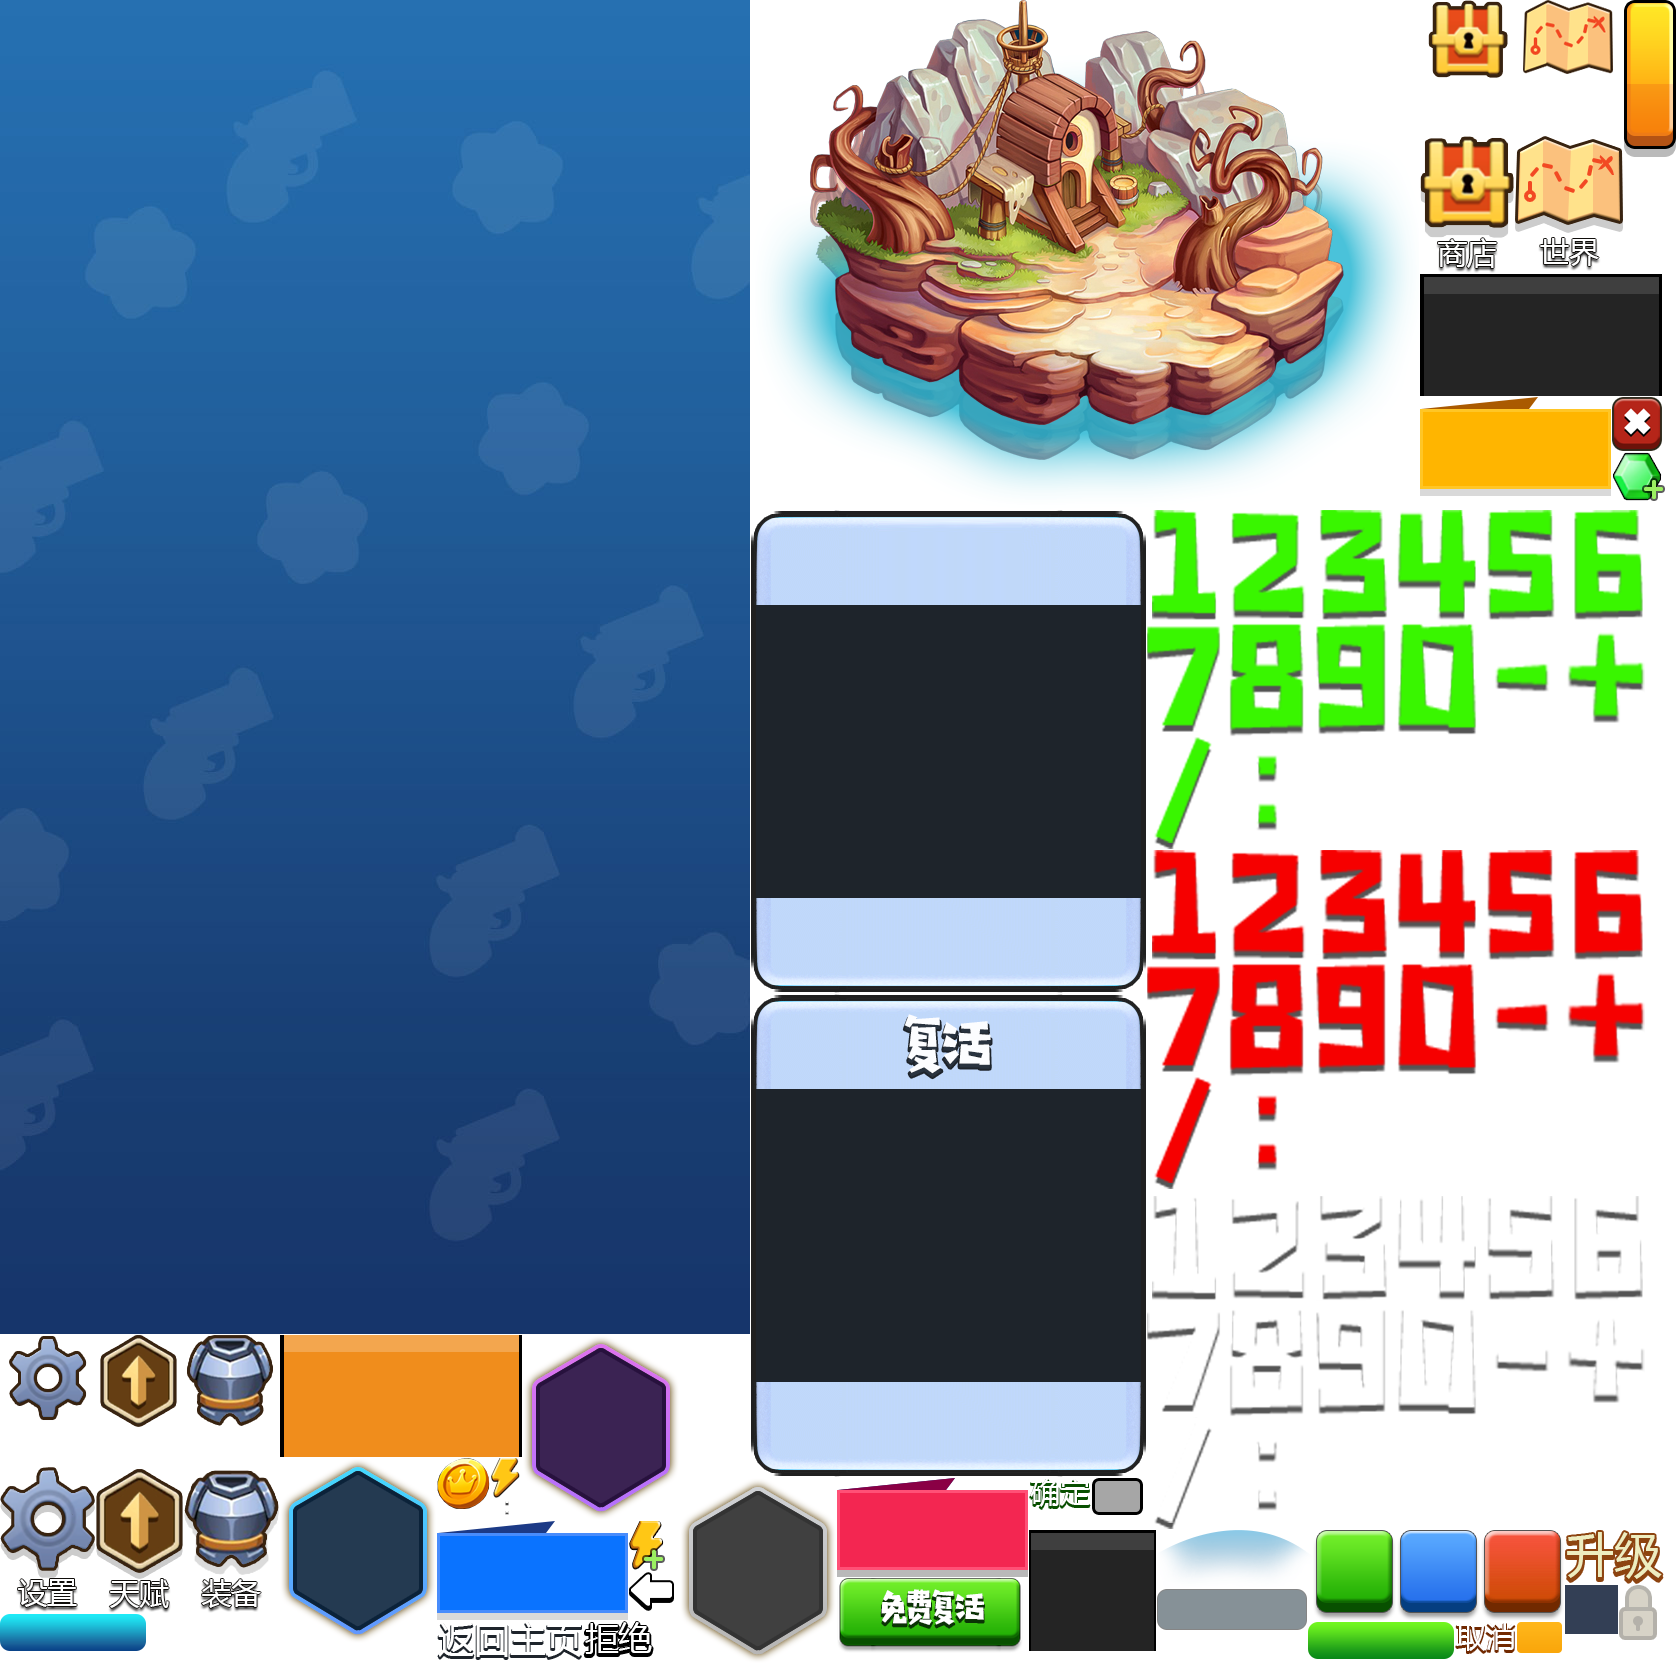
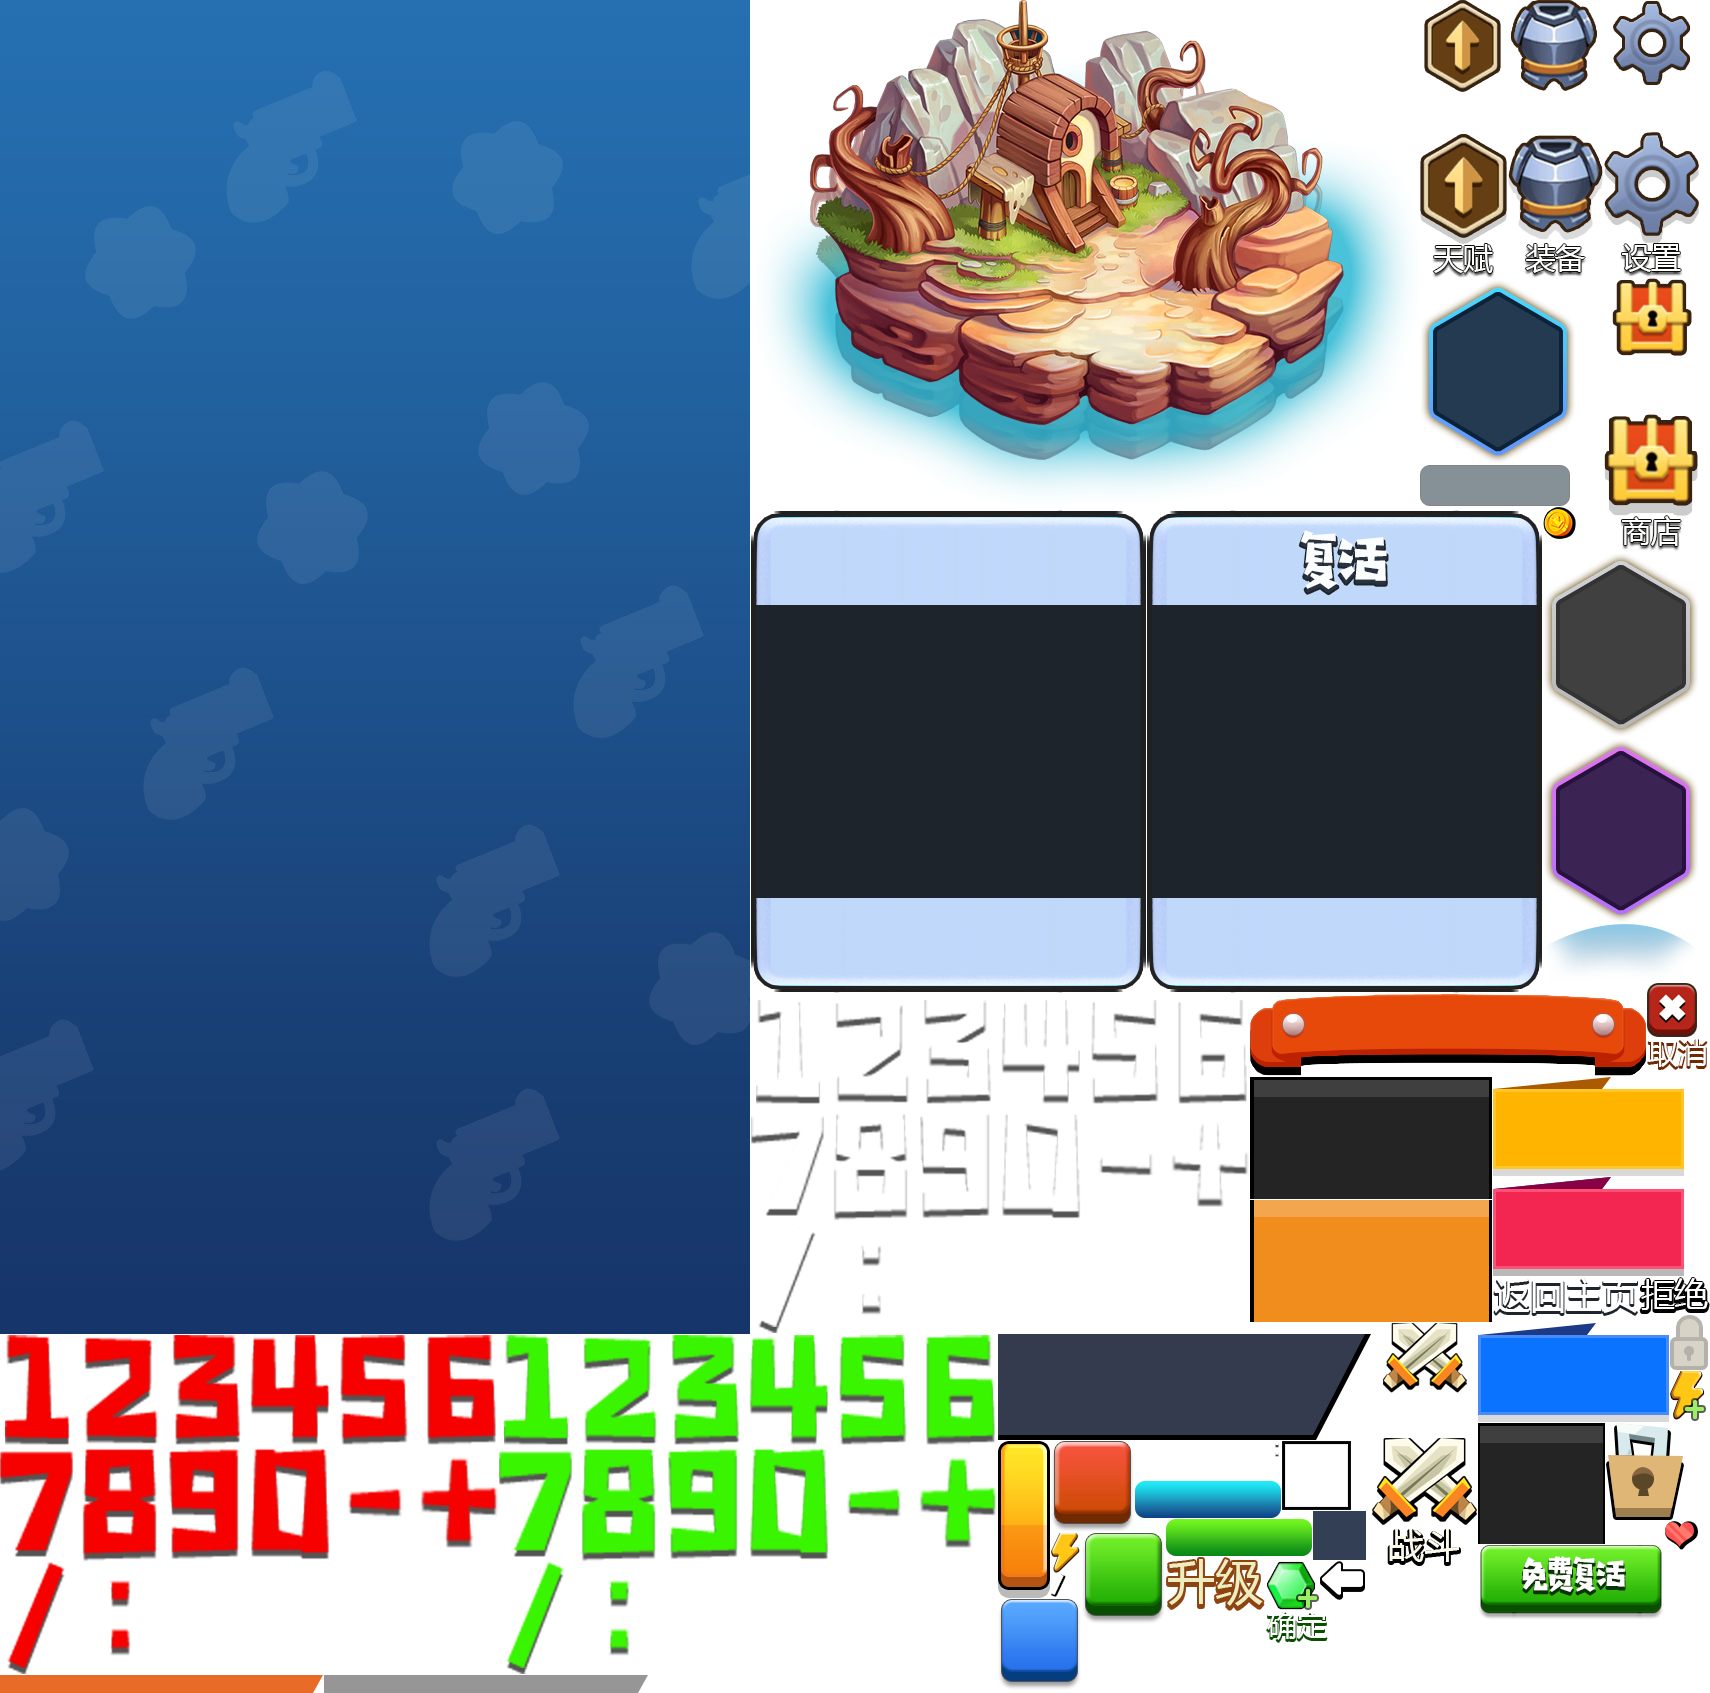
替换ui

diff --git a/Game3D01/src/ui/layaMaxUI.ts b/Game3D01/src/ui/layaMaxUI.ts
@@ -24,7 +24,7 @@ export module ui.test {
 		public zanting:Laya.Button;
 		public jinbishu:Laya.FontClip;
 		public shuzi:Laya.FontClip;
-        public static  uiView:any ={"type":"Dialog","props":{"width":750,"height":80},"compId":2,"child":[{"type":"Box","props":{"y":28,"x":195,"width":400,"height":37},"compId":11,"child":[{"type":"Image","props":{"y":-18,"x":-14,"width":435,"skin":"bg/qianshu.png","sizeGrid":"0,22,0,22","height":67,"alpha":0.8},"compId":3},{"type":"Box","props":{"y":-18,"x":-12,"width":419,"var":"lvBar","height":66},"compId":12,"child":[{"type":"Image","props":{"width":431,"var":"jingyantiao","skin":"bg/jingyantiaoshang.png","sizeGrid":"-11,34,-17,24","height":65},"compId":4},{"type":"Image","props":{"y":16,"x":12,"width":415,"skin":"bg/jingyantiaoguang.png","sizeGrid":"0,43,0,32","height":18},"compId":5}]}]},{"type":"Button","props":{"y":41,"x":665,"width":85,"var":"zanting","stateNum":1,"skin":"bg/btn_zhanting.png","pivotY":34,"pivotX":43,"height":67},"compId":6},{"type":"Sprite","props":{"y":10,"x":35,"texture":"bg/qianshu.png","scaleX":1,"alpha":0.8},"compId":7},{"type":"FontClip","props":{"y":28,"x":79,"width":36,"var":"jinbishu","value":"123","skin":"main/clipshuzi.png","sheet":"123456 7890-+ /:cdef","scaleY":0.3,"scaleX":0.3,"height":121,"align":"left"},"compId":8},{"type":"Sprite","props":{"y":1,"x":325,"texture":"bg/dengji.png"},"compId":9},{"type":"FontClip","props":{"y":5,"x":413,"width":294,"var":"shuzi","value":"2","skin":"main/clipshuzi.png","sheet":"123456 7890-+ /:cdef","scaleY":0.5,"scaleX":0.5,"height":113,"align":"left"},"compId":10},{"type":"Sprite","props":{"y":15.5,"x":18,"texture":"main/dongjin.png","scaleY":1,"scaleX":1},"compId":13}],"loadList":["bg/qianshu.png","bg/jingyantiaoshang.png","bg/jingyantiaoguang.png","bg/btn_zhanting.png","main/clipshuzi.png","bg/dengji.png","main/dongjin.png"],"loadList3D":[]};
+        public static  uiView:any ={"type":"Dialog","props":{"width":750,"height":80},"compId":2,"child":[{"type":"Box","props":{"y":28,"x":195,"width":400,"height":37},"compId":11,"child":[{"type":"Image","props":{"y":-18,"x":-14,"width":435,"skin":"bg/qianshu.png","sizeGrid":"0,22,0,22","height":67,"alpha":0.8},"compId":3},{"type":"Box","props":{"y":-18,"x":-12,"width":419,"var":"lvBar","height":66},"compId":12,"child":[{"type":"Image","props":{"width":431,"var":"jingyantiao","skin":"bg/jingyantiaoshang.png","sizeGrid":"-11,34,-17,24","height":65},"compId":4},{"type":"Image","props":{"y":16,"x":12,"width":415,"skin":"bg/jingyantiaoguang.png","sizeGrid":"0,43,0,32","height":18},"compId":5}]}]},{"type":"Button","props":{"y":41,"x":665,"width":85,"var":"zanting","stateNum":1,"skin":"bg/btn_zhanting.png","pivotY":34,"pivotX":43,"height":67},"compId":6},{"type":"Sprite","props":{"y":10,"x":35,"texture":"bg/qianshu.png","scaleX":1,"alpha":0.8},"compId":7},{"type":"FontClip","props":{"y":28,"x":79,"width":36,"var":"jinbishu","value":"123","skin":"main/clipshuzi.png","sheet":"123456 7890-+ /:cdef","scaleY":0.3,"scaleX":0.3,"height":121,"align":"left"},"compId":8},{"type":"Sprite","props":{"y":1,"x":325,"texture":"bg/dengji.png"},"compId":9},{"type":"FontClip","props":{"y":5,"x":413,"width":294,"var":"shuzi","value":"2","skin":"main/clipshuzi.png","sheet":"123456 7890-+ /:cdef","scaleY":0.5,"scaleX":0.5,"height":113,"align":"left"},"compId":10},{"type":"Sprite","props":{"y":9,"x":4,"texture":"bg/dongjin.png","scaleY":1,"scaleX":1},"compId":13}],"loadList":["bg/qianshu.png","bg/jingyantiaoshang.png","bg/jingyantiaoguang.png","bg/btn_zhanting.png","main/clipshuzi.png","bg/dengji.png","bg/dongjin.png"],"loadList3D":[]};
         constructor(){ super()}
         createChildren():void {
             super.createChildren();
@@ -210,25 +210,15 @@ export module ui.test {
     }
     REG("ui.test.LoadingUI",LoadingUI);
     export class mainUIUI extends Scene {
-		public topBox:Laya.Box;
-		public btn_xin:Laya.Button;
-		public jinbishuliang:Laya.Box;
-		public di:Laya.Image;
-		public jinbi:Laya.Image;
-		public coinClip:Laya.FontClip;
-		public shandianshuliang:Laya.Box;
+		public touxiang:Laya.Image;
 		public jingyantiao:Laya.Image;
-		public shandian:Laya.Image;
+		public dengji:Laya.FontClip;
+		public wanjiamingzi:Laya.Label;
+		public coinClip:Laya.FontClip;
 		public timerClip:Laya.FontClip;
 		public tiliClip:Laya.FontClip;
 		public appEnergyClip:Laya.FontClip;
-		public jingyanshuliang:Laya.Box;
-		public jingyan:Laya.Image;
-		public dengji:Laya.FontClip;
-		public shuijingshuliang:Laya.Box;
-		public shuijing:Laya.Image;
-		public shuijingshu:Laya.FontClip;
-        public static  uiView:any ={"type":"Scene","props":{"width":750,"height":1334},"compId":2,"child":[{"type":"Box","props":{"var":"topBox"},"compId":34,"child":[{"type":"Button","props":{"y":136,"x":691,"visible":false,"var":"btn_xin","stateNum":1,"skin":"main/btn_xin.png","anchorY":0.5,"anchorX":0.5},"compId":3},{"type":"Box","props":{"y":5,"x":370,"var":"jinbishuliang"},"compId":7,"child":[{"type":"Image","props":{"y":6,"x":25,"var":"di","skin":"main/shukuang.png"},"compId":5},{"type":"Image","props":{"var":"jinbi","skin":"main/dongjin.png"},"compId":4},{"type":"FontClip","props":{"y":15,"x":53,"width":590,"var":"coinClip","value":"123","skin":"main/clipshuzi.png","sheet":"123456 7890-+ /:cdef","scaleY":0.2,"scaleX":0.2,"height":118,"align":"left"},"compId":6}]},{"type":"Box","props":{"y":5,"x":183,"var":"shandianshuliang"},"compId":8,"child":[{"type":"Image","props":{"y":6,"x":25,"skin":"main/shukuang.png"},"compId":9},{"type":"Image","props":{"y":8,"x":27,"var":"jingyantiao","skin":"main/jindutiao.png"},"compId":17},{"type":"Image","props":{"y":0,"x":7,"var":"shandian","skin":"main/shandianjia.png"},"compId":10},{"type":"FontClip","props":{"y":50.25,"x":75,"width":421,"var":"timerClip","value":"12:00","skin":"main/clipshuzi.png","sheet":"123456 7890-+ /:cdef","scaleY":0.2,"scaleX":0.2,"height":117,"align":"center"},"compId":23},{"type":"FontClip","props":{"y":17.650000000000006,"x":58,"width":412,"var":"tiliClip","value":"20/20","skin":"main/clipshuzi.png","sheet":"123456 7890-+ /:cdef","scaleY":0.2,"scaleX":0.2,"height":112,"align":"center"},"compId":11},{"type":"FontClip","props":{"y":50.25,"x":20,"width":160,"var":"appEnergyClip","value":"-5","skin":"main/clipshuzi.png","sheet":"123456 7890-+ /:cdef","scaleY":0.2,"scaleX":0.2,"height":106,"align":"center"},"compId":38}]},{"type":"Box","props":{"y":5,"var":"jingyanshuliang"},"compId":12,"child":[{"type":"Image","props":{"y":6,"x":25,"skin":"main/shukuang.png"},"compId":13},{"type":"Image","props":{"y":8,"x":27,"var":"jingyan","skin":"main/jindutiaolan.png"},"compId":16},{"type":"Image","props":{"y":-5,"x":0,"skin":"main/pai.png"},"compId":14},{"type":"FontClip","props":{"y":24,"x":29,"width":83,"var":"dengji","value":"10","skin":"main/clipshuzi.png","sheet":"123456 7890-+ /:cdef","scaleY":0.2,"scaleX":0.2,"anchorY":0.5,"anchorX":0.5,"align":"center"},"compId":15}]},{"type":"Box","props":{"y":5,"x":553,"visible":false,"var":"shuijingshuliang"},"compId":18,"child":[{"type":"Image","props":{"y":6,"x":25,"skin":"main/shukuang.png"},"compId":19},{"type":"Image","props":{"var":"shuijing","skin":"main/zuanshijia.png"},"compId":20},{"type":"FontClip","props":{"y":15,"x":53,"width":226,"var":"shuijingshu","value":"123","skin":"main/clipshuzi.png","sheet":"123456 7890-+ /:cdef","scaleY":0.2,"scaleX":0.2,"height":51,"align":"center"},"compId":21}]}]}],"loadList":["main/btn_xin.png","main/shukuang.png","main/dongjin.png","main/clipshuzi.png","main/jindutiao.png","main/shandianjia.png","main/jindutiaolan.png","main/pai.png","main/zuanshijia.png"],"loadList3D":[]};
+        public static  uiView:any ={"type":"Scene","props":{"width":417,"height":106},"compId":2,"child":[{"type":"Image","props":{"y":0,"x":0,"width":417,"skin":"main/touxiangdi.png","sizeGrid":"0,85,0,54","height":106},"compId":40},{"type":"Image","props":{"y":5,"x":20,"width":69,"var":"touxiang","height":69},"compId":42},{"type":"Image","props":{"y":6,"x":20,"skin":"main/touxiangkuang.png"},"compId":41},{"type":"Image","props":{"y":84,"x":0,"width":370,"skin":"main/jingyantiaodi.png","sizeGrid":"0,67,0,42","height":18},"compId":43},{"type":"Image","props":{"y":84,"x":0,"width":370,"var":"jingyantiao","skin":"main/jingyantiaoshang.png","sizeGrid":"0,64,0,26","height":18},"compId":44},{"type":"FontClip","props":{"y":78,"x":63.5,"width":226,"var":"dengji","value":"12","skin":"main/clipshuzi.png","sheet":"123456 7890-+ /:cdef","scaleY":0.2,"scaleX":0.2,"height":115,"align":"left"},"compId":21},{"type":"Label","props":{"y":6,"x":96,"width":229,"var":"wanjiamingzi","text":"玩家名字七个字","height":33,"fontSize":30,"color":"#f3e9e9","align":"left"},"compId":45},{"type":"Image","props":{"y":72.5,"x":19.5,"skin":"bg/dengji.png","scaleY":0.5,"scaleX":0.5},"compId":46},{"type":"Image","props":{"y":44,"x":94.5,"skin":"main/dongjin.png"},"compId":47},{"type":"FontClip","props":{"y":49,"x":128,"width":582,"var":"coinClip","value":"12999","skin":"main/clipshuzi.png","sheet":"123456 7890-+ /:cdef","scaleY":0.2,"scaleX":0.2,"height":115,"align":"left"},"compId":48},{"type":"Sprite","props":{"y":46,"x":253.5,"texture":"main/tili.png"},"compId":49},{"type":"FontClip","props":{"y":31,"x":313,"width":472,"var":"timerClip","value":"00:00","skin":"main/clipshuzi.png","sheet":"123456 7890-+ /:cdef","scaleY":0.15,"scaleX":0.15,"height":122},"compId":56},{"type":"FontClip","props":{"y":49,"x":290,"width":434,"var":"tiliClip","value":"20/20","skin":"main/clipshuzi.png","sheet":"123456 7890-+ /:cdef","scaleY":0.2,"scaleX":0.2,"height":147},"compId":57},{"type":"FontClip","props":{"y":6,"x":313,"width":472,"var":"appEnergyClip","value":"-5","skin":"main/clipshuzi.png","sheet":"123456 7890-+ /:cdef","scaleY":0.15,"scaleX":0.15,"height":122},"compId":58}],"loadList":["main/touxiangdi.png","main/touxiangkuang.png","main/jingyantiaodi.png","main/jingyantiaoshang.png","main/clipshuzi.png","bg/dengji.png","main/dongjin.png","main/tili.png"],"loadList3D":[]};
         constructor(){ super()}
         createChildren():void {
             super.createChildren();
@@ -376,7 +366,7 @@ export module ui.test {
     export class worldUI extends View {
 		public bg:Laya.Image;
 		public box:Laya.Box;
-        public static  uiView:any ={"type":"View","props":{"width":750,"height":1334,"centerY":0},"compId":2,"child":[{"type":"Box","props":{"x":0,"height":1700,"centerY":0},"compId":20,"child":[{"type":"Image","props":{"y":0,"x":0,"var":"bg","skin":"main/zhudi.jpg","height":1700},"compId":3}]},{"type":"Box","props":{"x":33,"width":684,"var":"box","height":1000},"compId":24}],"loadList":["main/zhudi.jpg"],"loadList3D":[]};
+        public static  uiView:any ={"type":"View","props":{"width":750,"height":1334,"centerY":0},"compId":2,"child":[{"type":"Box","props":{"x":0,"height":1700,"centerY":0},"compId":20,"child":[{"type":"Image","props":{"y":0,"x":0,"var":"bg","skin":"main/zhudi.jpg","height":1700},"compId":3}]},{"type":"Box","props":{"y":110,"x":33,"width":684,"var":"box","height":1000},"compId":24}],"loadList":["main/zhudi.jpg"],"loadList3D":[]};
         constructor(){ super()}
         createChildren():void {
             super.createChildren();
@@ -385,10 +375,11 @@ export module ui.test {
     }
     REG("ui.test.worldUI",worldUI);
     export class worldCellUI extends View {
-		public titleTxt:Laya.Label;
 		public mapBtn:Laya.Button;
 		public cengshuTxt:Laya.Label;
-        public static  uiView:any ={"type":"View","props":{"width":684,"height":668},"compId":2,"child":[{"type":"Image","props":{"y":0,"x":246,"skin":"main/biaotihong.png"},"compId":4},{"type":"Label","props":{"y":32,"x":247,"width":189,"var":"titleTxt","text":"关卡名","height":36,"fontSize":36,"color":"#f6ecec","align":"center"},"compId":5},{"type":"Button","props":{"y":136,"var":"mapBtn","stateNum":1,"skin":"main/erdao.png"},"compId":3},{"type":"Label","props":{"y":50,"x":437,"width":245,"var":"cengshuTxt","text":"最高层数","height":36,"fontSize":36,"color":"#f6ecec","align":"left"},"compId":6}],"loadList":["main/biaotihong.png","main/erdao.png"],"loadList3D":[]};
+		public titleTxt:Laya.Sprite;
+		public suo:Laya.Sprite;
+        public static  uiView:any ={"type":"View","props":{"width":750,"height":710},"compId":2,"child":[{"type":"Image","props":{"y":27,"x":176,"skin":"main/changhong.png"},"compId":4},{"type":"Button","props":{"y":204,"x":31.5,"var":"mapBtn","stateNum":1,"skin":"main/erdao.png"},"compId":3},{"type":"Label","props":{"y":108,"x":248,"width":245,"var":"cengshuTxt","text":"最高层数","height":36,"fontSize":36,"color":"#f6ecec","align":"center"},"compId":6},{"type":"Sprite","props":{"y":35,"x":304,"var":"titleTxt","texture":"main/shamolvzhou.png"},"compId":7},{"type":"Sprite","props":{"y":372.5,"x":334.5,"var":"suo","texture":"main/suo2.png"},"compId":8},{"type":"Box","props":{"y":702,"x":0.5},"compId":27,"child":[{"type":"Sprite","props":{"x":-0.5,"texture":"main/xuxian.png"},"compId":10},{"type":"Sprite","props":{"x":53.5,"texture":"main/xuxian.png"},"compId":12},{"type":"Sprite","props":{"x":105.5,"texture":"main/xuxian.png"},"compId":13},{"type":"Sprite","props":{"x":157.5,"texture":"main/xuxian.png"},"compId":14},{"type":"Sprite","props":{"x":216.5,"texture":"main/xuxian.png"},"compId":15},{"type":"Sprite","props":{"x":272.5,"texture":"main/xuxian.png"},"compId":16},{"type":"Sprite","props":{"x":324.5,"texture":"main/xuxian.png"},"compId":17},{"type":"Sprite","props":{"x":376.5,"texture":"main/xuxian.png"},"compId":18},{"type":"Sprite","props":{"x":430.5,"texture":"main/xuxian.png"},"compId":19},{"type":"Sprite","props":{"x":488.5,"texture":"main/xuxian.png"},"compId":20},{"type":"Sprite","props":{"x":540.5,"texture":"main/xuxian.png"},"compId":21},{"type":"Sprite","props":{"x":592.5,"texture":"main/xuxian.png"},"compId":22},{"type":"Sprite","props":{"x":651.5,"texture":"main/xuxian.png"},"compId":23},{"type":"Sprite","props":{"x":707.5,"texture":"main/xuxian.png"},"compId":24}]}],"loadList":["main/changhong.png","main/erdao.png","main/shamolvzhou.png","main/suo2.png","main/xuxian.png"],"loadList3D":[]};
         constructor(){ super()}
         createChildren():void {
             super.createChildren();

diff --git a/Game3D01/src/main/scene/main/MainUI.ts b/Game3D01/src/main/scene/main/MainUI.ts
@@ -20,7 +20,6 @@ import App from "../../../core/App";
 
             this.topUI = new TopUI();
             this.addChild(this.topUI);
-            this.topUI.visible = false;
 
             this.bottomUI = new BottomUI();
             this.addChild(this.bottomUI);
@@ -58,7 +57,7 @@ import App from "../../../core/App";
             this.mo = new MaskObj(this.jingyantiao);
             this.mo.value = 1;
 
-            this.topBox.y = App.top;
+            // this.topBox.y = App.top;
             this.on(Laya.Event.DISPLAY,this,this.onDis);
         }
 

diff --git a/Game3D01/src/main/scene/main/world/WorldCell.ts b/Game3D01/src/main/scene/main/world/WorldCell.ts
@@ -5,6 +5,7 @@ export default class WorldCell extends ui.test.worldCellUI {
     constructor() { 
         super(); 
         this.mapBtn.clickHandler = new Laya.Handler(this,this.onClick);
+        this.suo.visible = false;
     }
 
     private onClick():void
@@ -14,7 +15,7 @@ export default class WorldCell extends ui.test.worldCellUI {
 
     update(sysChapter:SysChapter):void
     {
-        this.titleTxt.text = sysChapter.name;
+        // this.titleTxt.text = sysChapter.name;
     }
 
 }

diff --git a/Game3D01/src/GameConfig.ts b/Game3D01/src/GameConfig.ts
@@ -10,7 +10,7 @@ export default class GameConfig{
     static screenMode:string="none";
     static alignV:string="top";
     static alignH:string="left";
-    static startScene:any="test/alert.scene";
+    static startScene:any="test/world.scene";
     static sceneRoot:string="";
     static debug:boolean=false;
     static stat:boolean=true;
